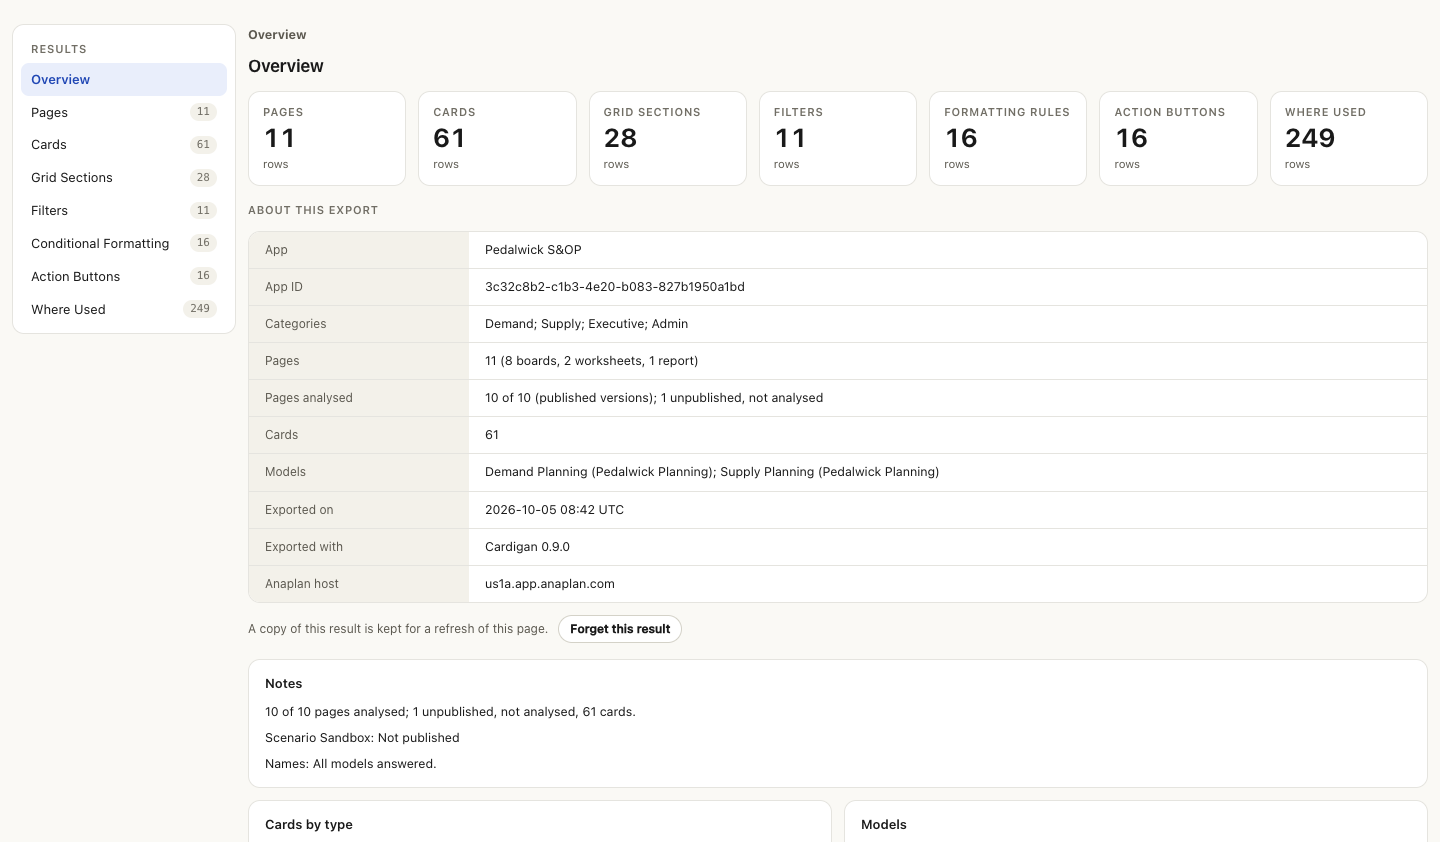
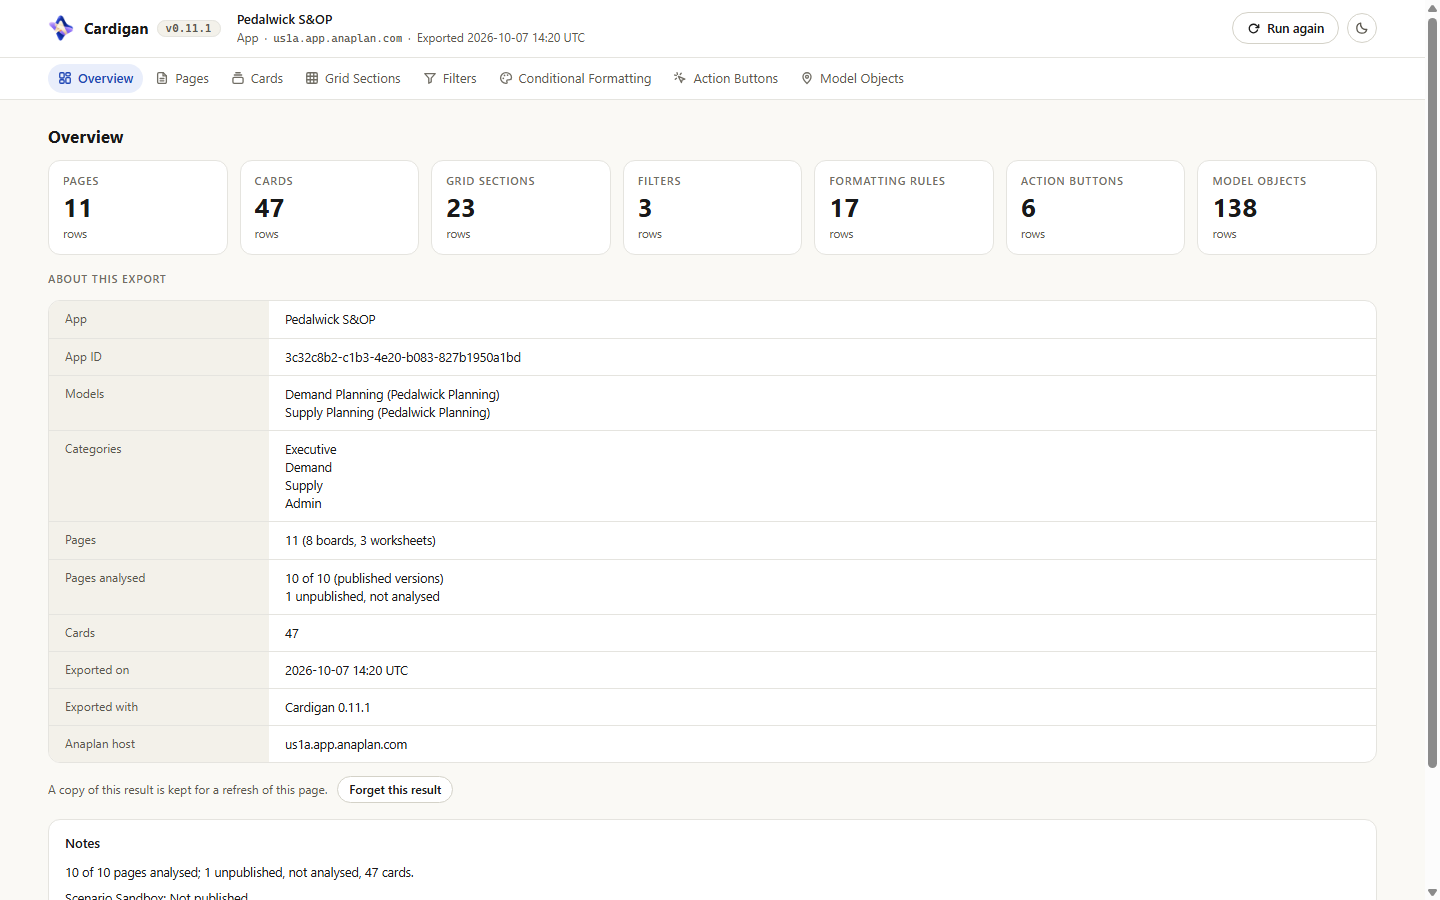
docs: retake the README's five pictures on the 0.11 build
The pictures showed the side navigation, its counts, the breadcrumb and the panels that 0.11.0 removed. Each is 1440 by
900, taken in a headless Chrome from the results page this branch builds, opened from file://. As before, the data is
invented: Pedalwick, a made-up bicycle maker, with an S&OP app over two models. The app's native page definitions went
through the real card reader and report, and the Demand Planning model's Model settings grids through the real model
export. No Anaplan site was opened.

diff --git a/README.md b/README.md
@@ -6,7 +6,7 @@ Cardigan makes no file and offers no download: the results page is the only plac
 
 Cardigan only reads, with your own signed-in session, and nothing it reads leaves your browser. It is an independent project, not affiliated with Anaplan: see [NOTICE.md](NOTICE.md).
 
-![An app's Overview on the results page: the number of rows in each table, what was read and when under About this export, and the notes](docs/images/app-overview.png)
+![An app's Overview on the results page, under the navigation bar: the number of rows in each table, what was read and when under About this export, and the notes](docs/images/app-overview.png)
 
 The pictures on this page show an invented app and model. They leave out the bar at the top of the page.
 
